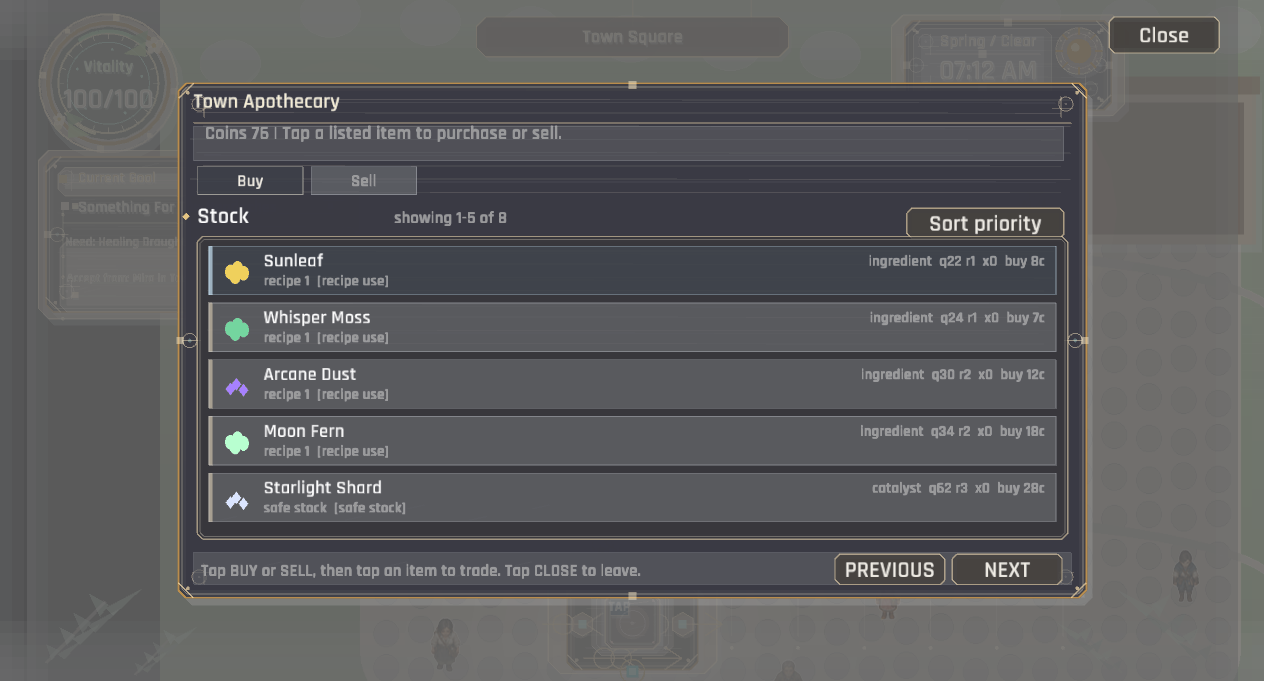
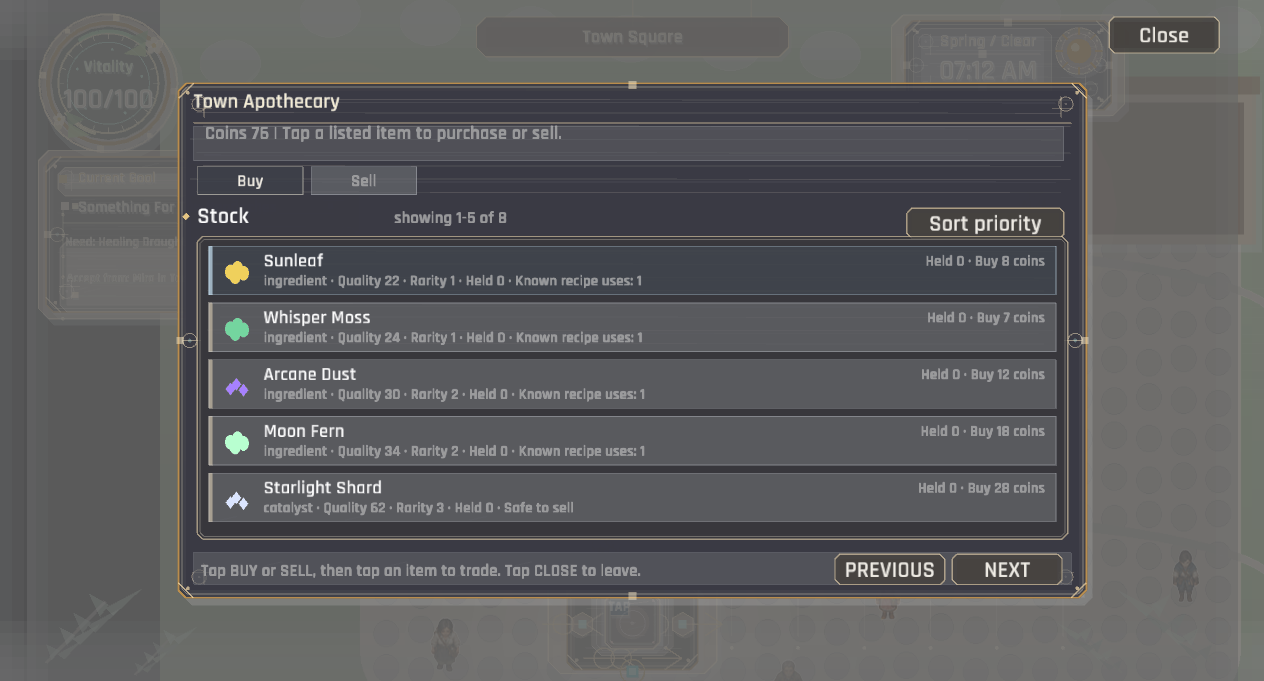
The tower names what each shelf is keeping for (readable item summaries)
Bag rows now lead with held quantity and only the relevant active-quest or known-recipe warning. Selected item details spell out category, quality, rarity, quantity, and named uses without q/r/x abbreviations or repeated bracket badges. Shop rows keep price and held quantity visible while making safe-to-sell versus keep-stock intent explicit, with the same readable facts in the item subtitle.\n\nNormal 1280x720 and minimum 960x540 inventory/shop captures were refreshed. The direct project suite passed 237/237, and .\\publish.ps1 completed Windows and WebGL packaging plus Preview deployment after temporarily excluding the pre-existing nested idle_hands and apartment workspaces from the parent Cargo workspace; those exclusions were removed immediately after publishing. The broader UI-08 Help action and live touch interaction remain in todo.md because native/browser tap execution is unavailable here.\n\nCo-Authored-By: GPT-5 (Codex) <noreply@openai.com>

diff --git a/src/state/gameplay_shop_overlay.rs b/src/state/gameplay_shop_overlay.rs
@@ -84,18 +84,32 @@ impl GameplayState {
                     .unwrap_or_default();
                 let detail = self.inventory_reference_summary(data, &draft.item_id);
                 let price = draft.price.to_string();
-                let extra = if buying {
-                    ui_format("overlay_buy_price", &[("price", &price)])
+                let meta = if buying {
+                    ui_format(
+                        "overlay_shop_buy_meta",
+                        &[("amount", &amount.to_string()), ("price", &price)],
+                    )
                 } else if draft.safe_to_sell {
-                    ui_format("overlay_sell_price_safe", &[("price", &price)])
+                    ui_format(
+                        "overlay_shop_sell_meta_safe",
+                        &[("amount", &amount.to_string()), ("price", &price)],
+                    )
                 } else {
-                    ui_format("overlay_sell_price", &[("price", &price)])
+                    ui_format(
+                        "overlay_shop_sell_meta",
+                        &[("amount", &amount.to_string()), ("price", &price)],
+                    )
                 };
+                let item_facts = self.item_facts_text(data, &draft.item_id, amount);
                 ShopOverlayEntry {
                     item_id: draft.item_id.clone(),
                     title: data.item_name(&draft.item_id).to_owned(),
-                    detail,
-                    meta: self.item_card_meta(data, &draft.item_id, amount, &extra),
+                    detail: if detail.is_empty() {
+                        item_facts
+                    } else {
+                        format!("{item_facts} · {detail}")
+                    },
+                    meta,
                     enabled: draft.enabled,
                     selected: self.shop_item_selected(index),
                 }

diff --git a/src/state/gameplay_inventory_overlay_view.rs b/src/state/gameplay_inventory_overlay_view.rs
@@ -65,14 +65,22 @@ impl GameplayState {
 
     fn inventory_row_meta(&self, data: &GameData, item_id: &str) -> String {
         let amount = self.inventory.get(item_id).copied().unwrap_or_default();
-        let item = data.item(item_id);
-        let category = item.map(|item| item.category.as_str()).unwrap_or("item");
-        let references = self.inventory_reference_summary(data, item_id);
-        if references.is_empty() {
-            format!("{category}  x{amount}")
-        } else {
-            format!("{category}  x{amount}  {references}")
+        let mut meta = ui_format("inventory_held", &[("amount", &amount.to_string())]);
+        let reserved = self.reserved_count(item_id);
+        if reserved > 0 {
+            meta.push_str(" · ");
+            meta.push_str(&ui_format(
+                "inventory_row_reserved",
+                &[("count", &reserved.to_string())],
+            ));
+        } else if self.active_quest_reference_count(data, item_id) > 0 {
+            meta.push_str(" · ");
+            meta.push_str(ui_copy("inventory_row_quest"));
+        } else if self.known_recipe_reference_count(data, item_id) > 0 {
+            meta.push_str(" · ");
+            meta.push_str(ui_copy("inventory_row_recipe"));
         }
+        meta
     }
 
     fn inventory_detail_view(&self, data: &GameData, item_id: &str) -> Option<InventoryDetailView> {
@@ -97,7 +105,7 @@ impl GameplayState {
             item_id: item_id.to_owned(),
             title: item.name.clone(),
             quantity_text: ui_format("inventory_quantity", &[("amount", &amount.to_string())]),
-            category_text: self.item_card_meta(data, item_id, amount, ""),
+            category_text: self.item_facts_text(data, item_id, amount),
             description: item.description.clone(),
             uses_text,
             action_text,

diff --git a/src/state/gameplay_inventory_references.rs b/src/state/gameplay_inventory_references.rs
@@ -54,25 +54,6 @@ impl GameplayState {
         quest_refs == 0 && recipe_refs == 0 && category != ItemCategory::Potion
     }
 
-    pub(super) fn inventory_badges(&self, data: &GameData, item_id: &str) -> Vec<String> {
-        let quest_refs = self.active_quest_reference_count(data, item_id);
-        let recipe_refs = self.known_recipe_reference_count(data, item_id);
-        let mut badges = Vec::new();
-        if quest_refs > 0 {
-            badges.push(reference_text::quest_badge());
-        }
-        if recipe_refs > 0 {
-            badges.push(reference_text::recipe_badge());
-        }
-        if self.item_best_record_label(item_id).is_some() {
-            badges.push(reference_text::best_badge());
-        }
-        if self.sell_is_safe(data, item_id) {
-            badges.push(reference_text::safe_badge());
-        }
-        badges
-    }
-
     pub(super) fn inventory_reference_summary(&self, data: &GameData, item_id: &str) -> String {
         let quest_refs = self.active_quest_reference_count(data, item_id);
         let recipe_refs = self.known_recipe_reference_count(data, item_id);
@@ -92,10 +73,6 @@ impl GameplayState {
         }
         if self.sell_is_safe(data, item_id) {
             parts.push(reference_text::safe_reference());
-        }
-        let badges = self.inventory_badges(data, item_id);
-        if !badges.is_empty() {
-            parts.push(reference_text::badge_summary(&badges));
         }
         reference_text::reference_summary(&parts)
     }

diff --git a/src/state/gameplay_ui_text.rs b/src/state/gameplay_ui_text.rs
@@ -3,18 +3,29 @@ use crate::content::{ui_copy, ui_format};
 use crate::data::GameData;
 
 impl GameplayState {
-    pub(super) fn item_card_meta(
-        &self,
-        data: &GameData,
-        item_id: &str,
-        amount: u32,
-        extra: &str,
-    ) -> String {
-        let quality = data
-            .item(item_id)
-            .map(|item| item.quality)
-            .unwrap_or_default();
-        self.item_card_meta_at_quality(data, item_id, amount, extra, quality)
+    pub(super) fn item_facts_text(&self, data: &GameData, item_id: &str, amount: u32) -> String {
+        let item = data.item(item_id);
+        ui_format(
+            "inventory_item_facts",
+            &[
+                (
+                    "category",
+                    item.map(|item| item.category.as_str()).unwrap_or("Item"),
+                ),
+                (
+                    "quality",
+                    &item
+                        .map(|item| item.quality)
+                        .unwrap_or_default()
+                        .to_string(),
+                ),
+                (
+                    "rarity",
+                    &item.map(|item| item.rarity).unwrap_or_default().to_string(),
+                ),
+                ("amount", &amount.to_string()),
+            ],
+        )
     }
 
     /// The same card, told what the item is worth in this context. A shop row

diff --git a/src/state/gameplay_inventory_reference_text.rs b/src/state/gameplay_inventory_reference_text.rs
@@ -4,22 +4,6 @@ pub(super) fn best_record(best_quality_band: &str) -> String {
     ui_format("inventory_best", &[("band", best_quality_band)])
 }
 
-pub(super) fn quest_badge() -> String {
-    ui_format("inventory_badge_quest", &[])
-}
-
-pub(super) fn recipe_badge() -> String {
-    ui_format("inventory_badge_recipe", &[])
-}
-
-pub(super) fn best_badge() -> String {
-    ui_format("inventory_badge_best", &[])
-}
-
-pub(super) fn safe_badge() -> String {
-    ui_format("inventory_badge_safe", &[])
-}
-
 pub(super) fn quest_reference(count: usize) -> String {
     ui_format("inventory_ref_quest", &[("count", &count.to_string())])
 }
@@ -34,16 +18,6 @@ pub(super) fn reserved_reference(count: u32) -> String {
 
 pub(super) fn safe_reference() -> String {
     ui_format("inventory_ref_safe", &[])
-}
-
-pub(super) fn badge_summary(badges: &[String]) -> String {
-    let badge_separator = ui_format("inventory_badge_separator", &[]);
-    let badges_text = badges
-        .iter()
-        .map(|badge| badge.as_str())
-        .collect::<Vec<_>>()
-        .join(&badge_separator);
-    ui_format("inventory_badge_summary", &[("badges", &badges_text)])
 }
 
 pub(super) fn reference_summary(parts: &[String]) -> String {

diff --git a/src/state/gameplay_inventory_overlay_view/tests.rs b/src/state/gameplay_inventory_overlay_view/tests.rs
@@ -15,8 +15,28 @@ fn inventory_view_explains_quantity_uses_and_potion_action() {
     assert!(detail.title.contains("Healing"));
     assert!(detail.quantity_text.contains('3'));
     assert!(detail.uses_text.contains("quest"));
+    assert!(detail.category_text.contains("Quality"));
+    assert!(detail.category_text.contains("Rarity"));
+    assert!(!detail.category_text.contains("q20"));
     assert!(detail.can_use);
     assert!(detail.action_text.contains("USE"));
+}
+
+#[test]
+fn inventory_rows_keep_quantity_and_only_the_relevant_warning() {
+    let data = crate::data::load_embedded().expect("embedded game data should load");
+    let mut state = GameplayState::new(&data);
+    state.inventory.insert("healing_draught".to_owned(), 3);
+    state
+        .progression
+        .started_quests
+        .insert("healing_for_mira".to_owned());
+
+    let view = state.inventory_overlay_view(&data);
+    let row = view.items.first().expect("the bag should have a first row");
+    assert!(row.meta.contains("Held: 3"));
+    assert!(row.meta.contains("Active quest"));
+    assert!(!row.meta.contains("recipe 1"));
 }
 
 #[test]
